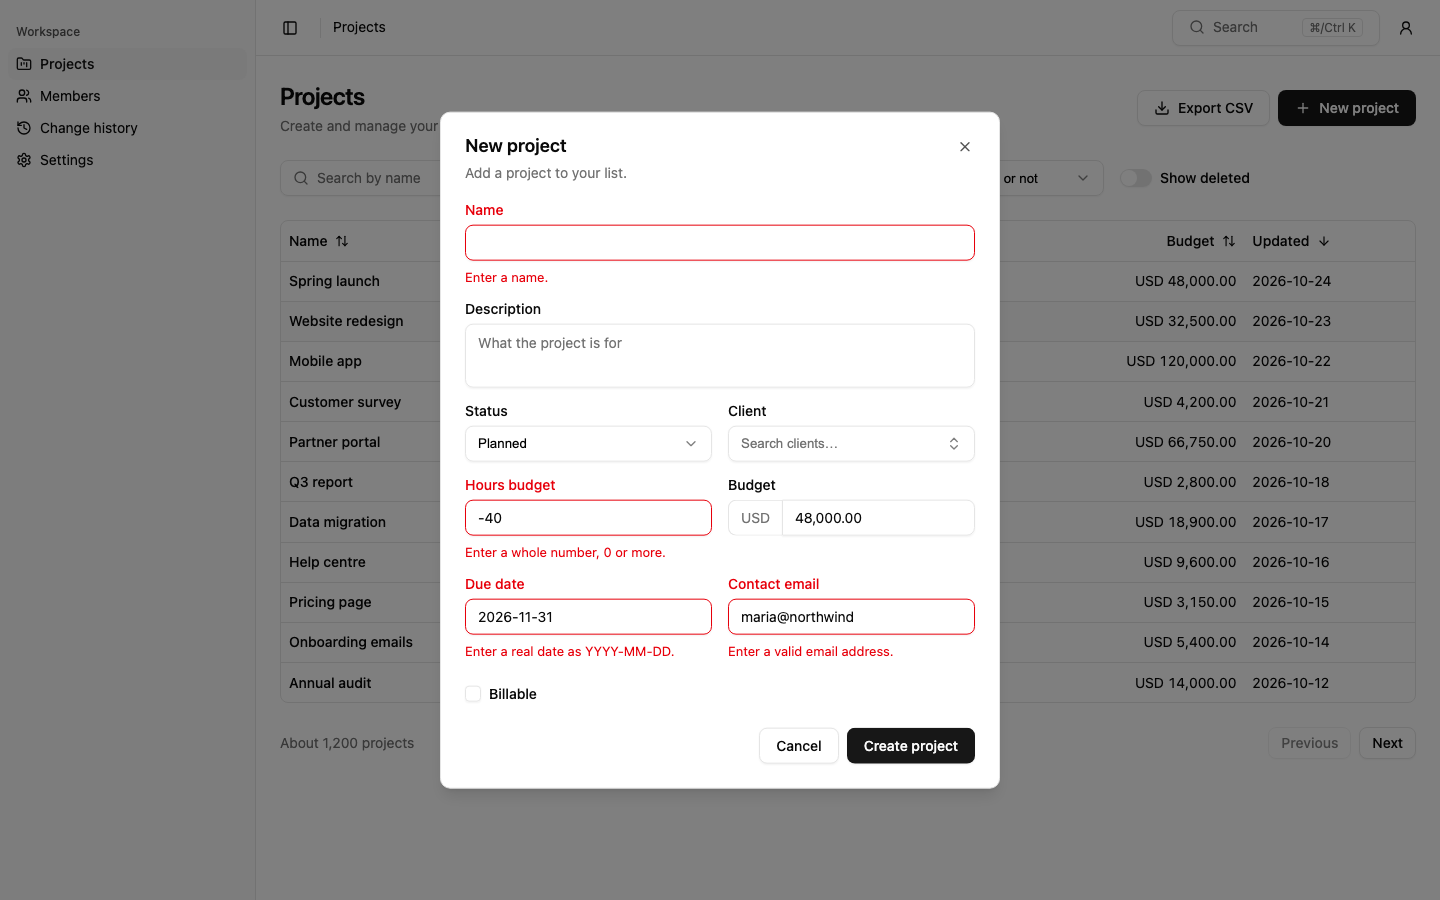
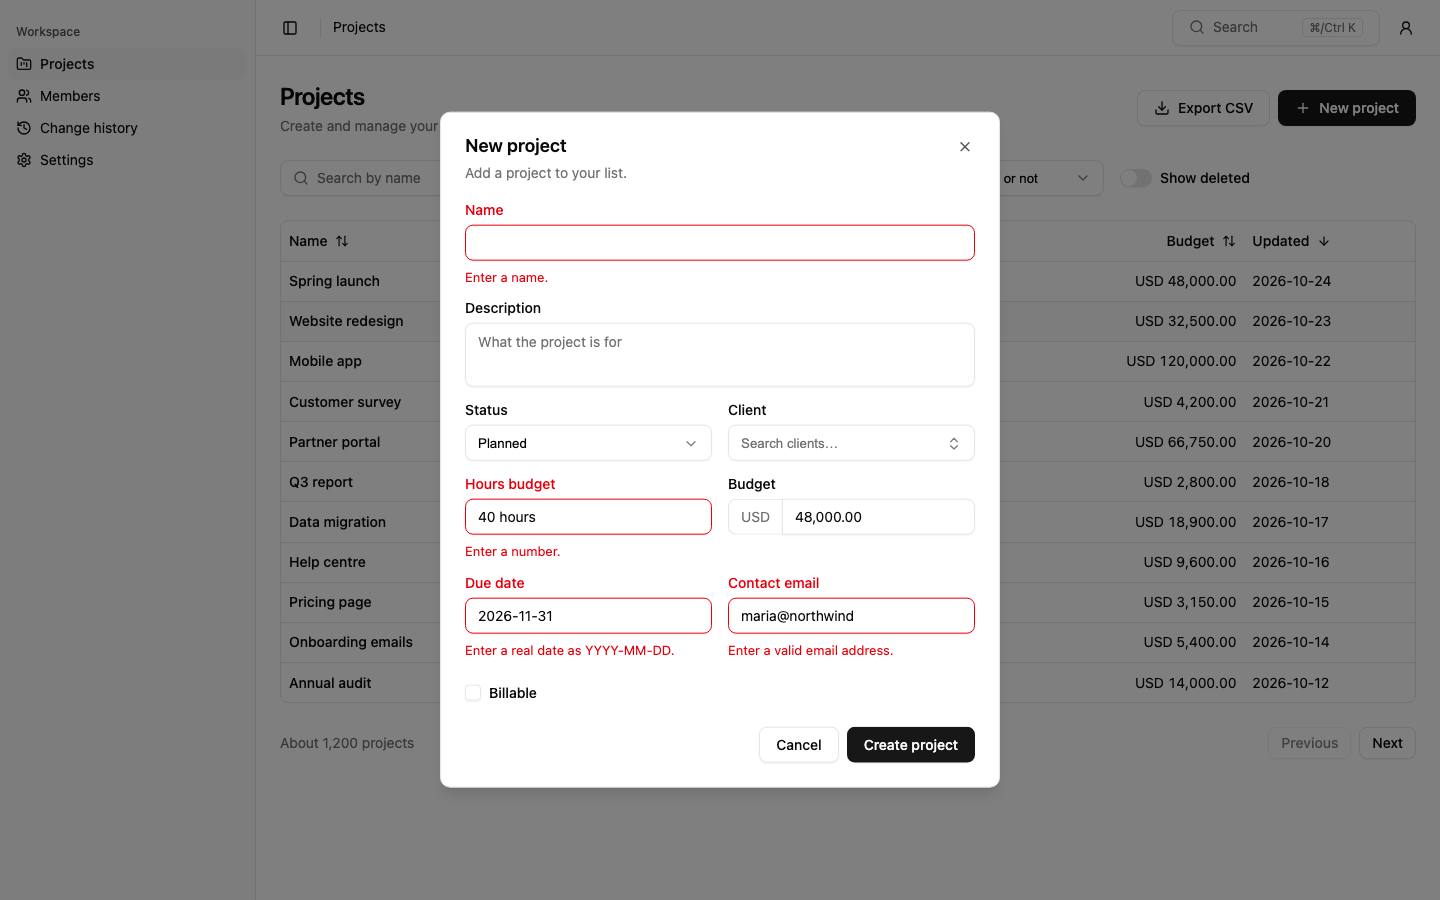
Let the number field take decimals and negatives in the feature design

diff --git a/docs/design/FORGE-FEATURE-1/src/project-form.html b/docs/design/FORGE-FEATURE-1/src/project-form.html
@@ -117,4 +117,4 @@ tr.del td a.name{color:var(--muted-foreground)}
 </style></head><body><div class="app"><nav class="sb" aria-label="Workspace navigation"><div class="lbl">Workspace</div><a href="#" class="on" aria-current=page><svg class="i" viewBox="0 0 24 24" aria-hidden="true"><path d="M4 20h16a2 2 0 0 0 2-2V8a2 2 0 0 0-2-2h-7.93a2 2 0 0 1-1.66-.9l-.82-1.2A2 2 0 0 0 7.93 3H4a2 2 0 0 0-2 2v13c0 1.1.9 2 2 2Z"/><path d="M8 10v4"/><path d="M12 10v2"/><path d="M16 10v6"/></svg><span>Projects</span></a><a href="#" class=""><svg class="i" viewBox="0 0 24 24" aria-hidden="true"><path d="M16 21v-2a4 4 0 0 0-4-4H6a4 4 0 0 0-4 4v2"/><circle cx="9" cy="7" r="4"/><path d="M22 21v-2a4 4 0 0 0-3-3.87"/><path d="M16 3.13a4 4 0 0 1 0 7.75"/></svg><span>Members</span></a><a href="#" class=""><svg class="i" viewBox="0 0 24 24" aria-hidden="true"><path d="M3 12a9 9 0 1 0 9-9 9.75 9.75 0 0 0-6.74 2.74L3 8"/><path d="M3 3v5h5"/><path d="M12 7v5l4 2"/></svg><span>Change history</span></a><a href="#" class=""><svg class="i" viewBox="0 0 24 24" aria-hidden="true"><path d="M12.22 2h-.44a2 2 0 0 0-2 2v.18a2 2 0 0 1-1 1.73l-.43.25a2 2 0 0 1-2 0l-.15-.08a2 2 0 0 0-2.73.73l-.22.38a2 2 0 0 0 .73 2.73l.15.1a2 2 0 0 1 1 1.72v.51a2 2 0 0 1-1 1.74l-.15.09a2 2 0 0 0-.73 2.73l.22.38a2 2 0 0 0 2.73.73l.15-.08a2 2 0 0 1 2 0l.43.25a2 2 0 0 1 1 1.73V20a2 2 0 0 0 2 2h.44a2 2 0 0 0 2-2v-.18a2 2 0 0 1 1-1.73l.43-.25a2 2 0 0 1 2 0l.15.08a2 2 0 0 0 2.73-.73l.22-.39a2 2 0 0 0-.73-2.73l-.15-.08a2 2 0 0 1-1-1.74v-.5a2 2 0 0 1 1-1.74l.15-.09a2 2 0 0 0 .73-2.73l-.22-.38a2 2 0 0 0-2.73-.73l-.15.08a2 2 0 0 1-2 0l-.43-.25a2 2 0 0 1-1-1.73V4a2 2 0 0 0-2-2z"/><circle cx="12" cy="12" r="3"/></svg><span>Settings</span></a></nav>
 <div class="inset"><header><button class="btn g ic" aria-label="Toggle Sidebar"><svg class="i" viewBox="0 0 24 24" aria-hidden="true"><rect width="18" height="18" x="3" y="3" rx="2"/><path d="M9 3v18"/></svg></button><div class="vsep"></div><nav class="crumbs" aria-label="Breadcrumb"><span class="crumb">Projects</span></nav>
 <div class="hr"><button class="btn o search" aria-label="Search"><span style="display:flex;align-items:center;gap:8px"><svg class="i" viewBox="0 0 24 24" aria-hidden="true"><circle cx="11" cy="11" r="8"/><path d="m21 21-4.3-4.3"/></svg>Search</span><kbd>⌘/Ctrl K</kbd></button><button class="btn g ic" aria-label="Open user menu"><svg class="i" viewBox="0 0 24 24" aria-hidden="true"><circle cx="12" cy="8" r="5"/><path d="M20 21a8 8 0 0 0-16 0"/></svg></button></div></header>
-<main id="main-content"><div class="page"><div class="ph"><div><h1>Projects</h1><p class="sub">Create and manage your projects.</p></div><div class="acts"><button class="btn o"><svg class="i" viewBox="0 0 24 24" aria-hidden="true"><path d="M21 15v4a2 2 0 0 1-2 2H5a2 2 0 0 1-2-2v-4"/><path d="m7 10 5 5 5-5"/><path d="M12 15V3"/></svg>Export CSV</button><button class="btn"><svg class="i" viewBox="0 0 24 24" aria-hidden="true"><path d="M5 12h14"/><path d="M12 5v14"/></svg>New project</button></div></div><div class="bar" role="search"><label class="input sx" data-fill="search"><svg class="i" viewBox="0 0 24 24" aria-hidden="true"><circle cx="11" cy="11" r="8"/><path d="m21 21-4.3-4.3"/></svg><span style="position:absolute;width:1px;height:1px;overflow:hidden">Search projects</span><span class="ph2">Search by name</span></label><button class="sel w40" aria-label="Status" data-fill="filter"><span>All statuses</span><svg class="i" viewBox="0 0 24 24" aria-hidden="true"><path d="m6 9 6 6 6-6"/></svg></button><button class="sel w40" aria-label="Client" data-fill="filter"><span>All clients</span><svg class="i" viewBox="0 0 24 24" aria-hidden="true"><path d="m6 9 6 6 6-6"/></svg></button><button class="sel w40" aria-label="Billable" data-fill="filter"><span>Billable or not</span><svg class="i" viewBox="0 0 24 24" aria-hidden="true"><path d="m6 9 6 6 6-6"/></svg></button><label class="sw"><span class="trk" role="switch" aria-checked="false" aria-label="Show deleted"><i></i></span>Show deleted</label></div><div class="tw"><table><thead><tr><th aria-sort="none" data-fill="column"><span class="sort">Name<svg class="i" viewBox="0 0 24 24" aria-hidden="true"><path d="m21 16-4 4-4-4"/><path d="M17 20V4"/><path d="m3 8 4-4 4 4"/><path d="M7 4v16"/></svg></span></th><th aria-sort="none" data-fill="column"><span class="sort">Status<svg class="i" viewBox="0 0 24 24" aria-hidden="true"><path d="m21 16-4 4-4-4"/><path d="M17 20V4"/><path d="m3 8 4-4 4 4"/><path d="M7 4v16"/></svg></span></th><th aria-sort="none" data-fill="column"><span class="sort">Client<svg class="i" viewBox="0 0 24 24" aria-hidden="true"><path d="m21 16-4 4-4-4"/><path d="M17 20V4"/><path d="m3 8 4-4 4 4"/><path d="M7 4v16"/></svg></span></th><th aria-sort="none" data-fill="column"><span class="sort">Due date<svg class="i" viewBox="0 0 24 24" aria-hidden="true"><path d="m21 16-4 4-4-4"/><path d="M17 20V4"/><path d="m3 8 4-4 4 4"/><path d="M7 4v16"/></svg></span></th><th class="num" aria-sort="none" data-fill="column"><span class="sort">Budget<svg class="i" viewBox="0 0 24 24" aria-hidden="true"><path d="m21 16-4 4-4-4"/><path d="M17 20V4"/><path d="m3 8 4-4 4 4"/><path d="M7 4v16"/></svg></span></th><th aria-sort="descending" data-fill="column"><span class="sort">Updated<svg class="i" viewBox="0 0 24 24" aria-hidden="true"><path d="M12 5v14"/><path d="m19 12-7 7-7-7"/></svg></span></th></tr></thead><tbody><tr><td><a class="name" href="#">Spring launch</a></td><td><span class="badge o">Active</span></td><td>Northwind Traders</td><td><time>2026-11-30</time></td><td class="num">USD 48,000.00</td><td><time>2026-10-24</time></td></tr><tr class=hov><td><a class="name" href="#">Website redesign</a></td><td><span class="badge o">Active</span></td><td>Contoso</td><td><time>2026-12-15</time></td><td class="num">USD 32,500.00</td><td><time>2026-10-23</time></td></tr><tr><td><a class="name" href="#">Mobile app</a></td><td><span class="badge o">Planned</span></td><td>Fabrikam</td><td><time>2027-02-01</time></td><td class="num">USD 120,000.00</td><td><time>2026-10-22</time></td></tr><tr><td><a class="name" href="#">Customer survey</a></td><td><span class="badge o">Planned</span></td><td>Northwind Traders</td><td><time>2026-11-10</time></td><td class="num">USD 4,200.00</td><td><time>2026-10-21</time></td></tr><tr><td><a class="name" href="#">Partner portal</a></td><td><span class="badge o">Active</span></td><td>Adventure Works</td><td><time>2027-01-20</time></td><td class="num">USD 66,750.00</td><td><time>2026-10-20</time></td></tr><tr><td><a class="name" href="#">Q3 report</a></td><td><span class="badge o">Done</span></td><td>Contoso</td><td><time>2026-09-30</time></td><td class="num">USD 2,800.00</td><td><time>2026-10-18</time></td></tr><tr><td><a class="name" href="#">Data migration</a></td><td><span class="badge o">Active</span></td><td>Litware</td><td><time>2026-12-01</time></td><td class="num">USD 18,900.00</td><td><time>2026-10-17</time></td></tr><tr><td><a class="name" href="#">Help centre</a></td><td><span class="badge o">Planned</span></td><td>Fabrikam</td><td><time>2027-03-15</time></td><td class="num">USD 9,600.00</td><td><time>2026-10-16</time></td></tr><tr><td><a class="name" href="#">Pricing page</a></td><td><span class="badge o">Done</span></td><td>Adventure Works</td><td><time>2026-10-01</time></td><td class="num">USD 3,150.00</td><td><time>2026-10-15</time></td></tr><tr><td><a class="name" href="#">Onboarding emails</a></td><td><span class="badge o">Active</span></td><td>Litware</td><td><time>2026-11-05</time></td><td class="num">USD 5,400.00</td><td><time>2026-10-14</time></td></tr><tr><td><a class="name" href="#">Annual audit</a></td><td><span class="badge o">Planned</span></td><td>Northwind Traders</td><td><time>2027-01-31</time></td><td class="num">USD 14,000.00</td><td><time>2026-10-12</time></td></tr></tbody></table></div><div class="foot"><p class="muted">About 1,200 projects</p><div class="acts"><button class="btn o sm" disabled style="opacity:.5">Previous</button><button class="btn o sm">Next</button></div></div></div></main></div></div><div class="overlay"></div><div class="dlg lg" role="dialog" aria-modal="true" aria-labelledby="ft"><button class="btn g ic x" aria-label="Close"><svg class="i" viewBox="0 0 24 24" aria-hidden="true"><path d="M18 6 6 18"/><path d="m6 6 12 12"/></svg></button><div><h2 id="ft">New project</h2><p class="dd">Add a project to your list.</p></div><form><div class="field" data-fill="field"><label class=err>Name</label><div class="input err" aria-invalid=true><span class="ph2"></span></div><p class="msg" role="alert">Enter a name.</p></div><div class="field" data-fill="field"><label>Description</label><div class="input ta"><span class="ph2">What the project is for</span></div></div><div class="g2"><div class="field" data-fill="field"><label>Status</label><button class="sel wf" type="button"><span>Planned</span><svg class="i" viewBox="0 0 24 24" aria-hidden="true"><path d="m6 9 6 6 6-6"/></svg></button></div><div class="field" data-fill="field"><label>Client</label><button class="sel wf" type="button"><span class=ph2>Search clients…</span><svg class="i" viewBox="0 0 24 24" aria-hidden="true"><path d="m7 15 5 5 5-5"/><path d="m7 9 5-5 5 5"/></svg></button></div></div><div class="g2"><div class="field" data-fill="field"><label class=err>Hours budget</label><div class="input err" aria-invalid=true><span>-40</span></div><p class="msg" role="alert">Enter a whole number, 0 or more.</p></div><div class="field" data-fill="field"><label>Budget</label><div class="pre"><span>USD</span><div class="input"><span>48,000.00</span></div></div></div></div><div class="g2"><div class="field" data-fill="field"><label class=err>Due date</label><div class="input err" aria-invalid=true><span>2026-11-31</span></div><p class="msg" role="alert">Enter a real date as YYYY-MM-DD.</p></div><div class="field" data-fill="field"><label class=err>Contact email</label><div class="input err" aria-invalid=true><span>maria@northwind</span></div><p class="msg" role="alert">Enter a valid email address.</p></div></div><div class="chk" data-fill="field"><span class="box" role="checkbox" aria-checked="false" aria-label="Billable"></span><label>Billable</label></div><div class="dfoot"><button class="btn o" type="button">Cancel</button><button class="btn" type="submit">Create project</button></div></form></div></body></html>
+<main id="main-content"><div class="page"><div class="ph"><div><h1>Projects</h1><p class="sub">Create and manage your projects.</p></div><div class="acts"><button class="btn o"><svg class="i" viewBox="0 0 24 24" aria-hidden="true"><path d="M21 15v4a2 2 0 0 1-2 2H5a2 2 0 0 1-2-2v-4"/><path d="m7 10 5 5 5-5"/><path d="M12 15V3"/></svg>Export CSV</button><button class="btn"><svg class="i" viewBox="0 0 24 24" aria-hidden="true"><path d="M5 12h14"/><path d="M12 5v14"/></svg>New project</button></div></div><div class="bar" role="search"><label class="input sx" data-fill="search"><svg class="i" viewBox="0 0 24 24" aria-hidden="true"><circle cx="11" cy="11" r="8"/><path d="m21 21-4.3-4.3"/></svg><span style="position:absolute;width:1px;height:1px;overflow:hidden">Search projects</span><span class="ph2">Search by name</span></label><button class="sel w40" aria-label="Status" data-fill="filter"><span>All statuses</span><svg class="i" viewBox="0 0 24 24" aria-hidden="true"><path d="m6 9 6 6 6-6"/></svg></button><button class="sel w40" aria-label="Client" data-fill="filter"><span>All clients</span><svg class="i" viewBox="0 0 24 24" aria-hidden="true"><path d="m6 9 6 6 6-6"/></svg></button><button class="sel w40" aria-label="Billable" data-fill="filter"><span>Billable or not</span><svg class="i" viewBox="0 0 24 24" aria-hidden="true"><path d="m6 9 6 6 6-6"/></svg></button><label class="sw"><span class="trk" role="switch" aria-checked="false" aria-label="Show deleted"><i></i></span>Show deleted</label></div><div class="tw"><table><thead><tr><th aria-sort="none" data-fill="column"><span class="sort">Name<svg class="i" viewBox="0 0 24 24" aria-hidden="true"><path d="m21 16-4 4-4-4"/><path d="M17 20V4"/><path d="m3 8 4-4 4 4"/><path d="M7 4v16"/></svg></span></th><th aria-sort="none" data-fill="column"><span class="sort">Status<svg class="i" viewBox="0 0 24 24" aria-hidden="true"><path d="m21 16-4 4-4-4"/><path d="M17 20V4"/><path d="m3 8 4-4 4 4"/><path d="M7 4v16"/></svg></span></th><th aria-sort="none" data-fill="column"><span class="sort">Client<svg class="i" viewBox="0 0 24 24" aria-hidden="true"><path d="m21 16-4 4-4-4"/><path d="M17 20V4"/><path d="m3 8 4-4 4 4"/><path d="M7 4v16"/></svg></span></th><th aria-sort="none" data-fill="column"><span class="sort">Due date<svg class="i" viewBox="0 0 24 24" aria-hidden="true"><path d="m21 16-4 4-4-4"/><path d="M17 20V4"/><path d="m3 8 4-4 4 4"/><path d="M7 4v16"/></svg></span></th><th class="num" aria-sort="none" data-fill="column"><span class="sort">Budget<svg class="i" viewBox="0 0 24 24" aria-hidden="true"><path d="m21 16-4 4-4-4"/><path d="M17 20V4"/><path d="m3 8 4-4 4 4"/><path d="M7 4v16"/></svg></span></th><th aria-sort="descending" data-fill="column"><span class="sort">Updated<svg class="i" viewBox="0 0 24 24" aria-hidden="true"><path d="M12 5v14"/><path d="m19 12-7 7-7-7"/></svg></span></th></tr></thead><tbody><tr><td><a class="name" href="#">Spring launch</a></td><td><span class="badge o">Active</span></td><td>Northwind Traders</td><td><time>2026-11-30</time></td><td class="num">USD 48,000.00</td><td><time>2026-10-24</time></td></tr><tr class=hov><td><a class="name" href="#">Website redesign</a></td><td><span class="badge o">Active</span></td><td>Contoso</td><td><time>2026-12-15</time></td><td class="num">USD 32,500.00</td><td><time>2026-10-23</time></td></tr><tr><td><a class="name" href="#">Mobile app</a></td><td><span class="badge o">Planned</span></td><td>Fabrikam</td><td><time>2027-02-01</time></td><td class="num">USD 120,000.00</td><td><time>2026-10-22</time></td></tr><tr><td><a class="name" href="#">Customer survey</a></td><td><span class="badge o">Planned</span></td><td>Northwind Traders</td><td><time>2026-11-10</time></td><td class="num">USD 4,200.00</td><td><time>2026-10-21</time></td></tr><tr><td><a class="name" href="#">Partner portal</a></td><td><span class="badge o">Active</span></td><td>Adventure Works</td><td><time>2027-01-20</time></td><td class="num">USD 66,750.00</td><td><time>2026-10-20</time></td></tr><tr><td><a class="name" href="#">Q3 report</a></td><td><span class="badge o">Done</span></td><td>Contoso</td><td><time>2026-09-30</time></td><td class="num">USD 2,800.00</td><td><time>2026-10-18</time></td></tr><tr><td><a class="name" href="#">Data migration</a></td><td><span class="badge o">Active</span></td><td>Litware</td><td><time>2026-12-01</time></td><td class="num">USD 18,900.00</td><td><time>2026-10-17</time></td></tr><tr><td><a class="name" href="#">Help centre</a></td><td><span class="badge o">Planned</span></td><td>Fabrikam</td><td><time>2027-03-15</time></td><td class="num">USD 9,600.00</td><td><time>2026-10-16</time></td></tr><tr><td><a class="name" href="#">Pricing page</a></td><td><span class="badge o">Done</span></td><td>Adventure Works</td><td><time>2026-10-01</time></td><td class="num">USD 3,150.00</td><td><time>2026-10-15</time></td></tr><tr><td><a class="name" href="#">Onboarding emails</a></td><td><span class="badge o">Active</span></td><td>Litware</td><td><time>2026-11-05</time></td><td class="num">USD 5,400.00</td><td><time>2026-10-14</time></td></tr><tr><td><a class="name" href="#">Annual audit</a></td><td><span class="badge o">Planned</span></td><td>Northwind Traders</td><td><time>2027-01-31</time></td><td class="num">USD 14,000.00</td><td><time>2026-10-12</time></td></tr></tbody></table></div><div class="foot"><p class="muted">About 1,200 projects</p><div class="acts"><button class="btn o sm" disabled style="opacity:.5">Previous</button><button class="btn o sm">Next</button></div></div></div></main></div></div><div class="overlay"></div><div class="dlg lg" role="dialog" aria-modal="true" aria-labelledby="ft"><button class="btn g ic x" aria-label="Close"><svg class="i" viewBox="0 0 24 24" aria-hidden="true"><path d="M18 6 6 18"/><path d="m6 6 12 12"/></svg></button><div><h2 id="ft">New project</h2><p class="dd">Add a project to your list.</p></div><form><div class="field" data-fill="field"><label class=err>Name</label><div class="input err" aria-invalid=true><span class="ph2"></span></div><p class="msg" role="alert">Enter a name.</p></div><div class="field" data-fill="field"><label>Description</label><div class="input ta"><span class="ph2">What the project is for</span></div></div><div class="g2"><div class="field" data-fill="field"><label>Status</label><button class="sel wf" type="button"><span>Planned</span><svg class="i" viewBox="0 0 24 24" aria-hidden="true"><path d="m6 9 6 6 6-6"/></svg></button></div><div class="field" data-fill="field"><label>Client</label><button class="sel wf" type="button"><span class=ph2>Search clients…</span><svg class="i" viewBox="0 0 24 24" aria-hidden="true"><path d="m7 15 5 5 5-5"/><path d="m7 9 5-5 5 5"/></svg></button></div></div><div class="g2"><div class="field" data-fill="field"><label class=err>Hours budget</label><div class="input err" aria-invalid=true><span>40 hours</span></div><p class="msg" role="alert">Enter a number.</p></div><div class="field" data-fill="field"><label>Budget</label><div class="pre"><span>USD</span><div class="input"><span>48,000.00</span></div></div></div></div><div class="g2"><div class="field" data-fill="field"><label class=err>Due date</label><div class="input err" aria-invalid=true><span>2026-11-31</span></div><p class="msg" role="alert">Enter a real date as YYYY-MM-DD.</p></div><div class="field" data-fill="field"><label class=err>Contact email</label><div class="input err" aria-invalid=true><span>maria@northwind</span></div><p class="msg" role="alert">Enter a valid email address.</p></div></div><div class="chk" data-fill="field"><span class="box" role="checkbox" aria-checked="false" aria-label="Billable"></span><label>Billable</label></div><div class="dfoot"><button class="btn o" type="button">Cancel</button><button class="btn" type="submit">Create project</button></div></form></div></body></html>

diff --git a/docs/design/FORGE-FEATURE-1/SCREENS.md b/docs/design/FORGE-FEATURE-1/SCREENS.md
@@ -188,7 +188,7 @@ fields go two to a row; text and long text use the full width.
 - Validation messages, under the field, shown after the first submit and then while the person
   types:
   - Name empty: `Enter a name.` Name too long: `Use 200 characters or fewer.`
-  - Hours budget: `Enter a whole number, 0 or more.`
+  - Hours budget, when it is not a number: `Enter a number.`
   - Budget: `Enter an amount, such as 1,250.00.`
   - Due date: `Enter a real date as YYYY-MM-DD.`
   - Contact email: `Enter a valid email address.`
